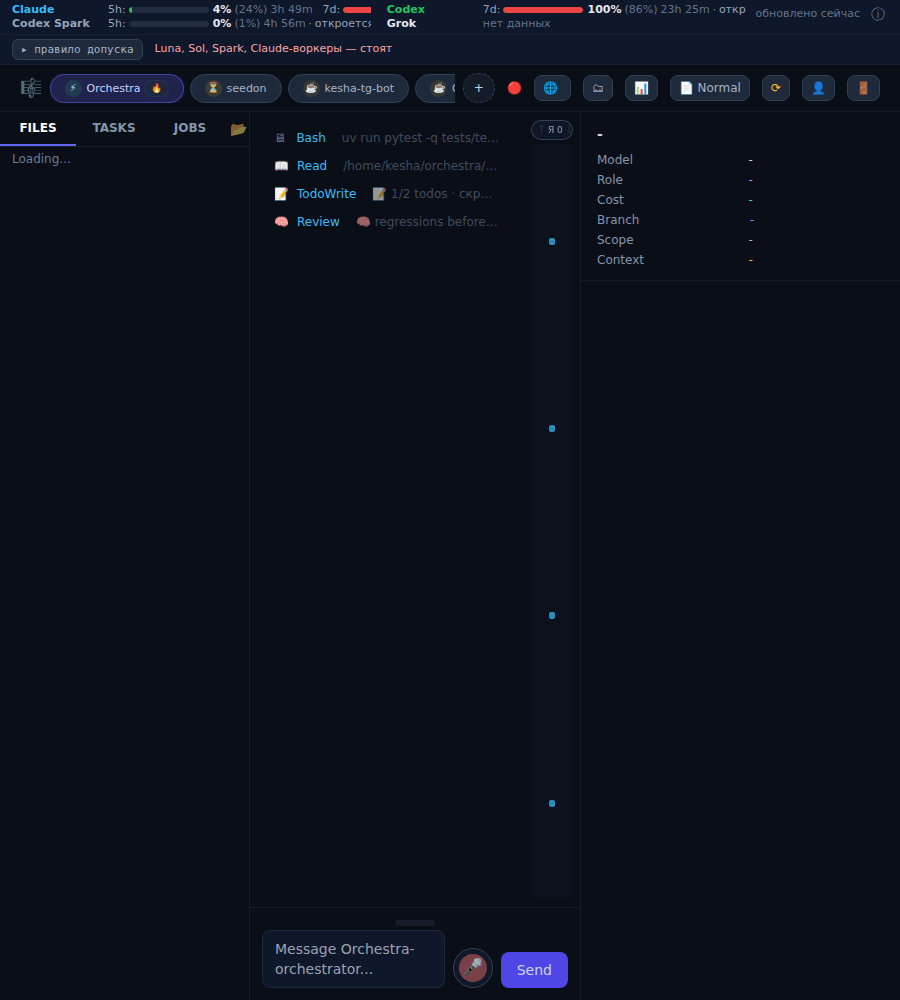
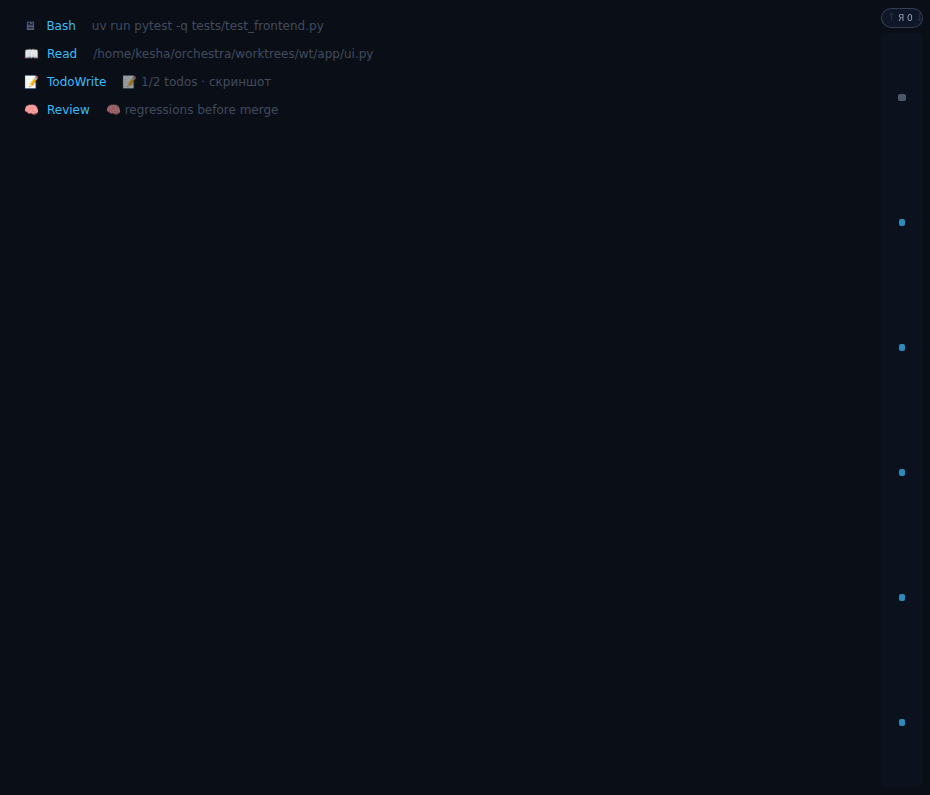
#369: #369: retake bubble screenshots — positive visibility check + frozen DOM clone + pixel self-check

diff --git a/docs/tasks/369/screenshot_bubbles.py b/docs/tasks/369/screenshot_bubbles.py
@@ -1,4 +1,10 @@
-"""#369: screenshots of harness tool bubbles for the user (live :8888 + route substitution)."""
+"""#369: screenshots of harness tool bubbles for the user (live :8888 + route substitution).
+
+Урок после пустого первого снимка: фоновый код дашборда умеет вычищать чат между
+проверкой и снимком, поэтому порядок такой — инжект → ПОЛОЖИТЕЛЬНАЯ проверка
+(видимость конкретного баббла) → заморозка DOM клоном (его никто не тронет) →
+пост-проверка клона → element.screenshot чата → пиксельная самопроверка файла.
+"""
 
 import os
 import sys
@@ -35,10 +41,32 @@ CALLS_COMPACT = [
 ]
 
 
+def shoot(page, calls, compact: bool, marker_sel: str, out_name: str) -> None:
+    """Инжект + заморозка одним ходом, проверки ДО и ПОСЛЕ заморозки, снимок узла."""
+    page.evaluate("""(args) => {
+        const [calls, compact] = args;
+        const chat = document.querySelector('#chat, #chat-frozen');
+        chat.id = 'chat';
+        selectedAgent = null;
+        if (eventSource) { eventSource.close(); eventSource = null; }
+        window.compactMode = compact;
+        chat.innerHTML = '';
+        for (const [type, content] of calls) {
+            addChatEntry(type, content, null, null, {});
+        }
+        const k = chat.cloneNode(true);
+        k.id = 'chat-frozen';
+        chat.parentNode.replaceChild(k, chat);
+    }""", [calls, compact])
+    # положительный признак отрисовки — уже на замороженном клоне
+    page.locator(f"#chat-frozen {marker_sel}").first.wait_for(state="visible", timeout=10000)
+    page.locator("#chat-frozen").screenshot(path=str(OUT / out_name))
+
+
 def main() -> int:
     with sync_playwright() as p:
         browser = p.chromium.launch()
-        page = browser.new_page(viewport={"width": 900, "height": 1000})
+        page = browser.new_page(viewport={"width": 1500, "height": 1000})
         for rel, ctype in [
             ("app/static/js/tool-renderers.js", "application/javascript"),
             ("app/static/js/app.js", "application/javascript"),
@@ -57,35 +85,28 @@ def main() -> int:
             page.fill('input[name="password"]', os.environ["DASHBOARD_PASSWORD"])
             page.click('button[type="submit"]')
         page.wait_for_selector("#agent-list", timeout=20000)
+        # Гейт: подменённый код жив (символа в main нет)
         page.wait_for_function("() => typeof HARNESS_TOOL_ALIASES !== 'undefined'",
                                timeout=10000)
-        page.evaluate("""(calls) => {
-            selectedAgent = null;
-            if (eventSource) { eventSource.close(); eventSource = null; }
-            window.compactMode = false;
-            const chat = document.querySelector('#chat');
-            chat.innerHTML = '';
-            for (const [type, content] of calls) {
-                addChatEntry(type, content, null, null, {});
-            }
-        }""", CALLS_FULL)
-        page.evaluate("() => { const c = document.querySelector('#chat'); c.scrollTop = c.scrollHeight; }")
-        page.wait_for_timeout(400)
-        page.screenshot(path=str(OUT / "bubbles-full.png"), full_page=False)
 
-        page.evaluate("""(calls) => {
-            window.compactMode = true;
-            const chat = document.querySelector('#chat');
-            chat.innerHTML = '';
-            for (const [type, content] of calls) {
-                addChatEntry(type, content, null, null, {});
-            }
-        }""", CALLS_COMPACT)
-        page.wait_for_timeout(300)
-        page.screenshot(path=str(OUT / "bubbles-compact.png"), full_page=False)
+        shoot(page, CALLS_FULL, False, "[data-is-bash]", "bubbles-full.png")
+        shoot(page, CALLS_COMPACT, True, '[data-tool-raw="Bash"]', "bubbles-compact.png")
         browser.close()
-    print("saved:", OUT / "bubbles-full.png", OUT / "bubbles-compact.png")
-    return 0
+
+    # Скриншот — артефакт: проверяем пиксели, а не верим в ожидаемое.
+    from PIL import Image
+    ok = True
+    for name in ("bubbles-full.png", "bubbles-compact.png"):
+        im = Image.open(OUT / name).convert("RGB")
+        colors = im.getcolors(maxcolors=1_000_000)
+        n_colors = len(colors)
+        top = max(colors, key=lambda c: c[0])[0]
+        non_bg = 1 - top / (im.width * im.height)
+        good = im.height > 200 and n_colors >= 500 and non_bg >= 0.05
+        ok &= good
+        print(f"{name}: {im.width}x{im.height}, colors={n_colors}, "
+              f"non-background={non_bg:.1%} -> {'OK' if good else 'BLANK?'}")
+    return 0 if ok else 1
 
 
 if __name__ == "__main__":

diff --git a/docs/workers/feat-harness-bubbles.md b/docs/workers/feat-harness-bubbles.md
@@ -21,3 +21,12 @@
 ## Разное
 - Скриншоты/картинки через read недоступны (binary) — работай от текстового
   описания задачи.
+
+## Скриншоты как артефакты (#369, поймал оркестратор)
+- Скриншот открывают ДО того, как описали словами. Я описал ожидаемое, а файл был
+  пустой — оркестратор поймал простым просмотром. Пиксельная самопроверка
+  (кол-во цветов, доля не-фона) — минимальный честный прокси, если глазами нельзя.
+- Живой дашборд вычищает #chat между вызовами evaluate (reconnect/history-sync).
+  Рабочий приём: инжект → позитивная проверка видимости конкретного баббла →
+  `cloneNode(true)` чата с заменой узла (заморозка) → пост-проверка клона →
+  `locator.screenshot()` самого чата. Готовый скрипт: docs/tasks/369/screenshot_bubbles.py.
